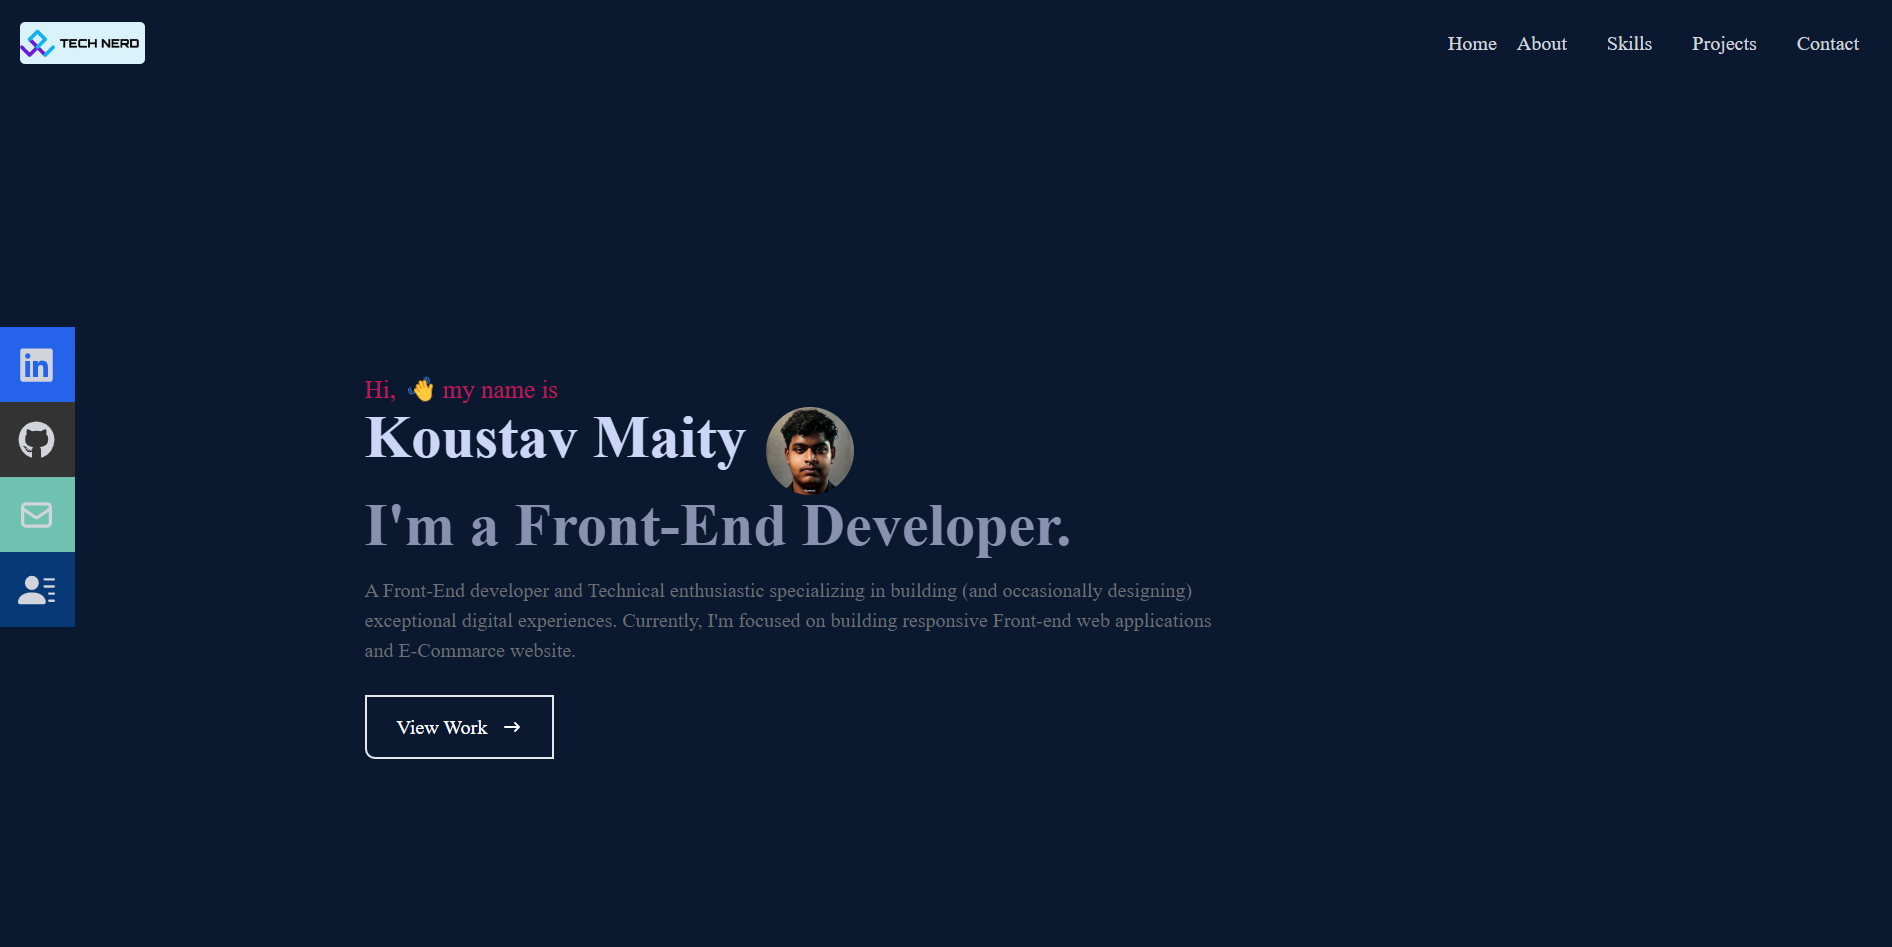
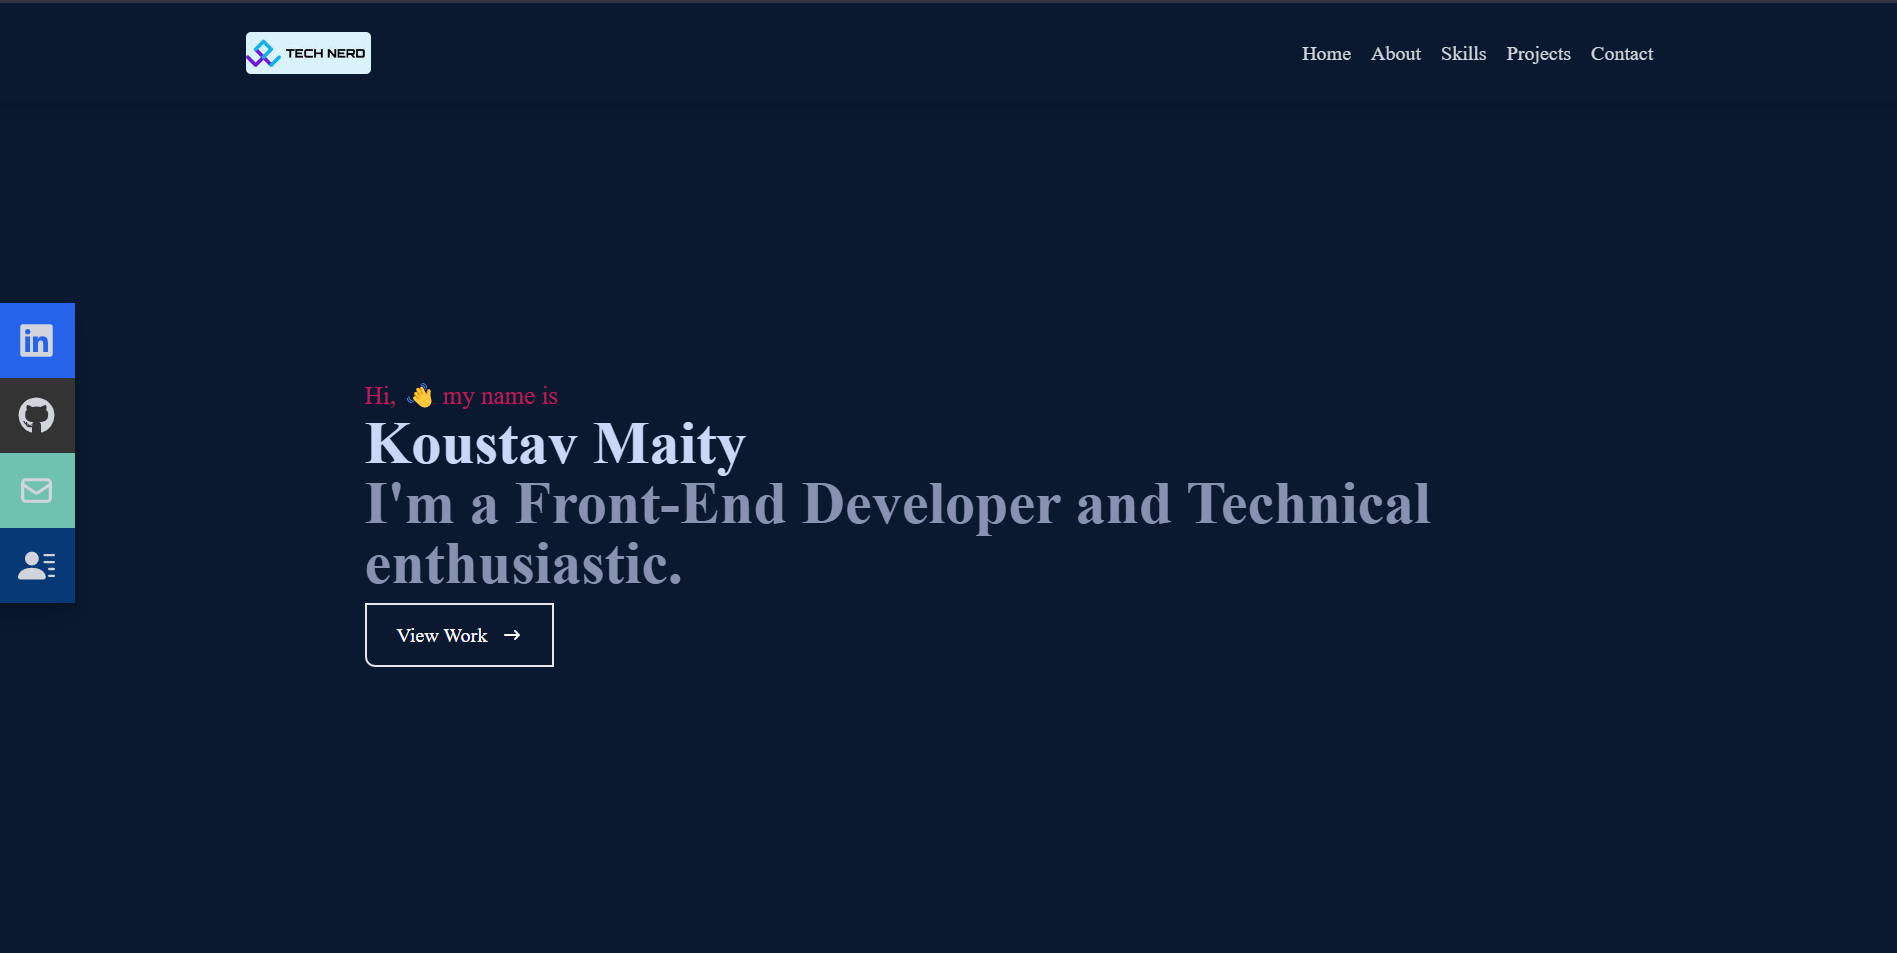
commit

diff --git a/src/Components/NavBar.jsx b/src/Components/NavBar.jsx
@@ -16,7 +16,7 @@ function NavBar() {
     const [nav, setNav] = useState(false);
     const handleClick = () => setNav(!nav);
     return (
-        <div className=' flxed w-full h-[80px] gap-96 flex justify-around items-center px-4 bg-[#0a192f] text-gray-300 sticky top-0 z-50 drop-shadow-lg shadow-blue-600'>
+        <div className=' flxed w-full h-[80px] gap-70 flex justify-between  items-center px-4 bg-[#0a192f] text-gray-300 sticky top-0 z-50 drop-shadow-lg shadow-blue-600'>
             <div >
                 <img src={Logo} alt='Logo Image' style={{ width: '100px' }} className='rounded' />
             </div>

diff --git a/src/Components/About.jsx b/src/Components/About.jsx
@@ -7,10 +7,9 @@ const About = () => {
         <div className='max-w-[1000px] w-full grid grid-cols-2 gap-8'>
           <div className='sm:text-right pb-8 pl-4'>
             <p className='text-4xl font-bold inline border-b-4 border-pink-600'>
-              About
+              About Me
             </p>
           </div>
-          <div></div>
           </div>
           <div className='max-w-[1000px] w-full grid sm:grid-cols-2 gap-8 px-4'>
             <div className=' sm:text-right text-4xl font-bold'>
